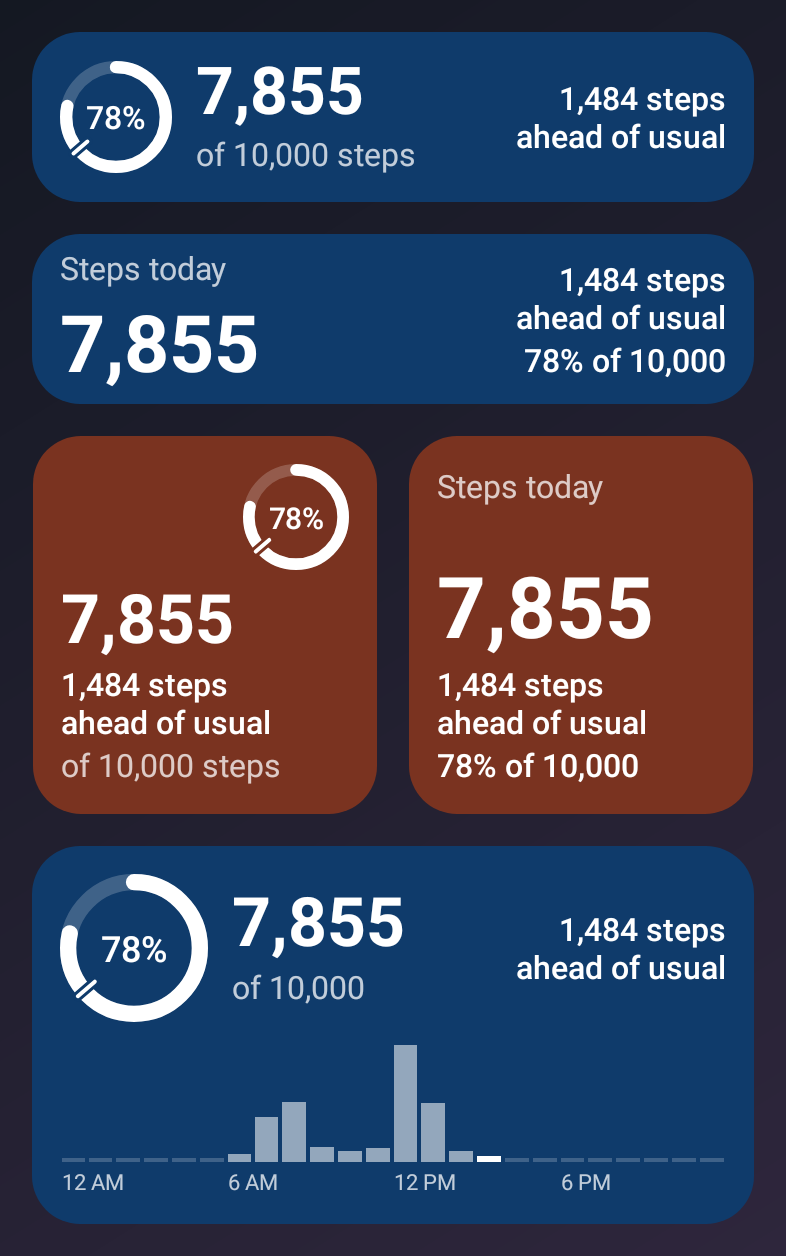
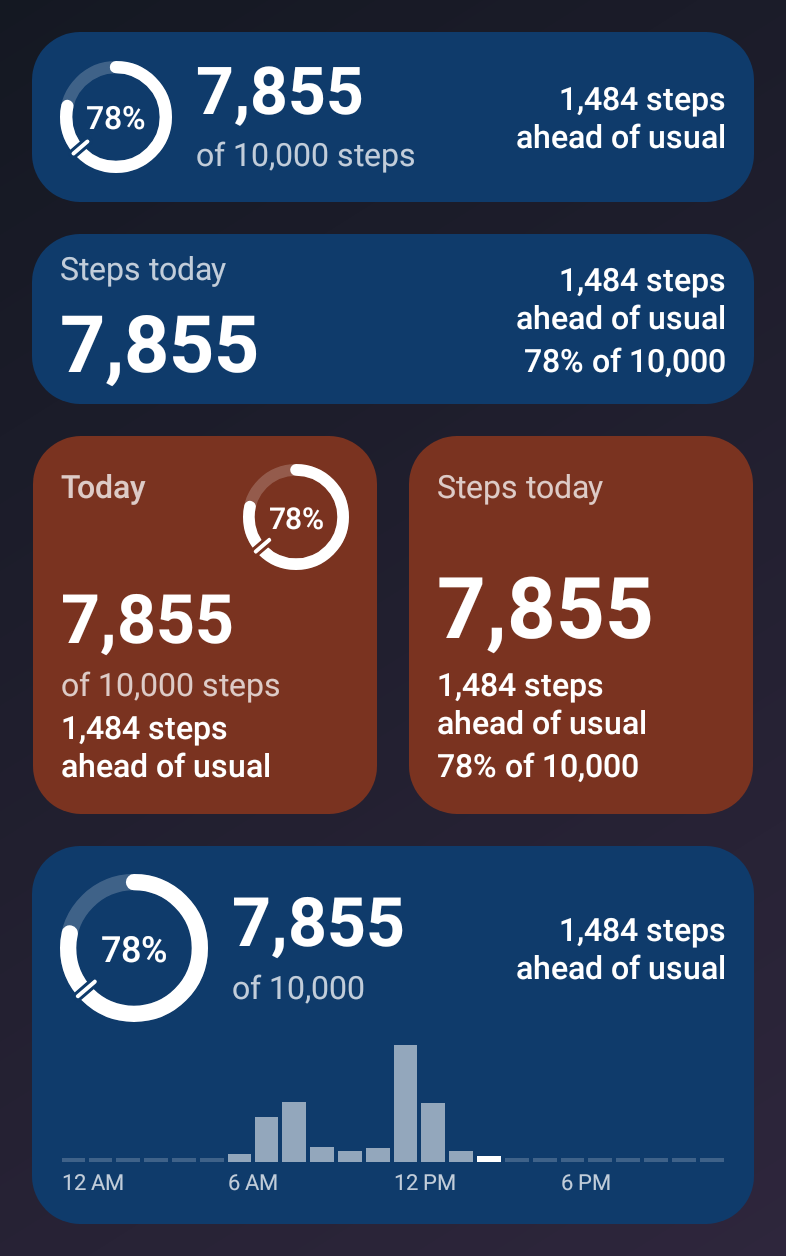
The family's ring card: «In words» is the ring, with its eyebrow and the family's order
The ring card (GlanceWidget) takes the name every sister gives its ring
card, «In words» / «In parole»; the type card (WordsWidget) becomes «At a
glance» / «Colpo d'occhio». Labels only: classes and receivers keep their
names, so placed cards stay. The tall card gains «Today» beside the ring,
and under the number the goal now comes before the sentence (tall card and
a panel's stacked header). Guide, README, VISION, ADR 0005, PLANNING §15,
CHANGELOG updated; widgets.png regenerated.

Claude-Session: https://claude.ai/code/session_016e4mBMaw6WtMuiD1zs5DWe

Changed region(s): [[0.0611, 0.5279, 0.3664, 0.621], [0.0611, 0.3726, 0.1832, 0.4037]]

diff --git a/widget/src/main/kotlin/com/callbackdev/passo/widget/glance/GlanceWidget.kt b/widget/src/main/kotlin/com/callbackdev/passo/widget/glance/GlanceWidget.kt
@@ -64,6 +64,7 @@ import com.callbackdev.passo.widget.WidgetSamples
 import com.callbackdev.passo.widget.axisHour
 import com.callbackdev.passo.widget.balancedWidth
 import com.callbackdev.passo.widget.compactCount
+import com.callbackdev.passo.widget.eyebrowText
 import com.callbackdev.passo.widget.fontScale
 import com.callbackdev.passo.widget.goalOfText
 import com.callbackdev.passo.widget.linesThatFit
@@ -387,8 +388,9 @@ private fun RowContent(
         val sized = if (split != null) GlanceModifier.width(RingTextGap + column) else GlanceModifier.defaultWeight()
         Column(modifier = GlanceModifier.padding(start = RingTextGap).then(balance).then(sized)) {
             Count(parts, hero)
-            StackedSentence(parts, stacked, column)
+            // The family's order (owner, 14 Nov 2026): what the number is, then what it means.
             GoalLine(parts, column)
+            StackedSentence(parts, stacked, column)
             if (footnote) StatusFootnote(parts.model.state, parts.palette, column)
         }
         if (split != null) {
@@ -462,8 +464,8 @@ private fun MirroredRow(parts: CardParts, width: Dp, height: Dp, ring: Dp, wide:
                     )
                 }
             }
-            StackedSentence(parts, stacked, words)
             GoalLine(parts, words)
+            StackedSentence(parts, stacked, words)
             if (footnote) StatusFootnote(parts.model.state, parts.palette, words)
         }
         Ring(parts, ring)
@@ -471,8 +473,10 @@ private fun MirroredRow(parts: CardParts, width: Dp, height: Dp, ring: Dp, wide:
 }
 
 /**
- * Two rows and up: the ring alone in the top trailing corner, the words stacked from the bottom
- * leading one, in order: the number, the sentence, the goal.
+ * Two rows and up: the ring in the top trailing corner with the eyebrow («Today») beside it, the
+ * words stacked from the bottom leading one, in order: the number, the goal (what the number is,
+ * as under the number of a one-row card), the sentence (what it means). The family's order on a
+ * tall ring card (owner, 14 Nov 2026, PLANNING.md §15 «The family's ring card»).
  */
 @Composable
 private fun TallContent(parts: CardParts, size: DpSize) {
@@ -488,14 +492,37 @@ private fun TallContent(parts: CardParts, size: DpSize) {
     val fitted = text?.let { FittedSentence(it, plan.sentenceLines) }
     Box(modifier = GlanceModifier.fillMaxSize(), contentAlignment = Alignment.TopEnd) {
         Ring(parts, plan.ring)
+        Eyebrow(parts, tallEyebrowWidth(width, plan.ring))
         Column(modifier = GlanceModifier.fillMaxSize(), verticalAlignment = Alignment.Bottom) {
             Count(parts, plan.heroSp)
+            GoalLine(parts, width)
             val sentenceWidth = fitted?.let {
                 balancedWidth(context, it.text, SENTENCE_LINE_SP, width, TextWeight.MEDIUM, it.lines)
             } ?: width
             Sentence(parts, fitted, TextAlign.Start, GlanceModifier.width(sentenceWidth))
-            GoalLine(parts, width)
         }
+    }
+}
+
+/**
+ * The tall card's eyebrow, in the top leading corner beside the ring: what the card is about,
+ * «Today», as every ring card of the family names its subject there. Quiet and Medium, one line,
+ * left out where even the word does not fit the column the ring leaves.
+ */
+@Composable
+private fun Eyebrow(parts: CardParts, room: Dp) {
+    val text = eyebrowText(parts.context, short = true)
+    if (measureWidgetText(parts.context, text, EYEBROW_SP, TextWeight.MEDIUM).withSlack() > room) return
+    Box(modifier = GlanceModifier.fillMaxSize(), contentAlignment = Alignment.TopStart) {
+        Text(
+            text = text,
+            style = TextStyle(
+                color = parts.palette.secondaryInk,
+                fontSize = EYEBROW_SP.sp,
+                fontWeight = FontWeight.Medium,
+            ),
+            maxLines = 1,
+        )
     }
 }
 

diff --git a/widget/src/main/kotlin/com/callbackdev/passo/widget/glance/GlanceLayout.kt b/widget/src/main/kotlin/com/callbackdev/passo/widget/glance/GlanceLayout.kt
@@ -16,7 +16,8 @@ import com.callbackdev.passo.widget.textLineHeight
 import com.callbackdev.passo.widget.textSizeForLine
 
 /*
- * «At a glance»: the ring is the picture the card is read by across a room, and it says
+ * «In words», the family's ring card (owner, 14 Nov 2026: it was «At a glance», and took the
+ * name its sisters' ring cards carry; the class names stay, so placed cards stay): the ring is the picture the card is read by across a room, and it says
  * at a glance (how far along the day is) before any number is read.
  *
  * Five forms, picked by the grant the launcher really makes, so every size is a composition
@@ -177,6 +178,16 @@ internal fun tallPlan(
     }
     return TallPlan(ring = ring, heroSp = quarterPoint(hero), sentenceLines = lines)
 }
+
+/**
+ * The tall card's eyebrow (owner, 14 Nov 2026, the family's ring card): «Today» in the top leading
+ * corner, beside the ring, at the scale's body size, quiet and Medium. Its column is what the ring
+ * leaves less [EyebrowRingGap]; it stands in the ring's height, so it takes nothing from the words.
+ */
+internal fun tallEyebrowWidth(innerWidth: Dp, ring: Dp): Dp = (innerWidth - ring - EyebrowRingGap).coerceAtLeast(0.dp)
+
+internal const val EYEBROW_SP = WidgetType.BODY
+internal val EyebrowRingGap = 8.dp
 
 internal val TallRingMin = 44.dp
 internal val TallRingMax = 104.dp

diff --git a/widget/src/test/kotlin/com/callbackdev/passo/widget/glance/GlanceLayoutTest.kt b/widget/src/test/kotlin/com/callbackdev/passo/widget/glance/GlanceLayoutTest.kt
@@ -5,7 +5,7 @@ import androidx.compose.ui.unit.dp
 import com.google.common.truth.Truth.assertThat
 import org.junit.Test
 
-/** The forms and budgets of «At a glance», at the household's reference grants. */
+/** The forms and budgets of «In words», the ring card (named «At a glance» until 14 Nov 2026), at the household's reference grants. */
 class GlanceLayoutTest {
     private val oneByOne = DpSize(85.dp, 85.dp)
     private val twoByOne = DpSize(159.dp, 85.dp)
@@ -205,5 +205,15 @@ class GlanceLayoutTest {
     fun `the one-cell ring takes the cell`() {
         assertThat(dotRingSize(oneByOne)).isEqualTo(85.dp - DotPadding * 2)
         assertThat(dotRingSize(oneByTwo)).isEqualTo(85.dp - DotPadding * 2)
+    }
+
+    @Test
+    fun `the tall card's eyebrow stands beside the ring, in the column it leaves`() {
+        val plan = tallPlan(twoByTwo, 1f, fiveDigits, 2)
+        val inner = twoByTwo.width - 28.dp
+        assertThat(tallEyebrowWidth(inner, plan.ring)).isEqualTo(inner - plan.ring - 8.dp)
+        // «Today» at 16 sp is about 45 dp: the two-by-two leaves it room.
+        assertThat(tallEyebrowWidth(inner, plan.ring).value).isGreaterThan(60f)
+        assertThat(tallEyebrowWidth(20.dp, 44.dp)).isEqualTo(0.dp)
     }
 }

diff --git a/widget/src/main/kotlin/com/callbackdev/passo/widget/words/WordsWidget.kt b/widget/src/main/kotlin/com/callbackdev/passo/widget/words/WordsWidget.kt
@@ -70,7 +70,8 @@ import com.callbackdev.passo.widget.widgetFormatter
 import com.callbackdev.passo.widget.withSlack
 
 /**
- * «In words»: the same day as «At a glance», with no drawing on the card
+ * «At a glance» (named «In words» until 14 Nov 2026, when the ring card took that name): the same
+ * day as the ring card «In words», with no drawing on the card
  * but two marks at the size of the line they belong to (a check before a goal that is met, and
  * the pause of a count that is not moving). The number is the drawing now. [WordsLayout] holds
  * the ranks, the forms and every number's reason.

diff --git a/widget/src/main/kotlin/com/callbackdev/passo/widget/PassoWidgets.kt b/widget/src/main/kotlin/com/callbackdev/passo/widget/PassoWidgets.kt
@@ -22,10 +22,10 @@ import kotlinx.coroutines.launch
 
 /** The two cards, as the settings screen and the previews need to tell them apart. */
 enum class WidgetKind {
-    /** «At a glance»: the ring, the number, the sentence, and the day hour by hour. */
+    /** «In words», the family's ring card (named «At a glance» until 14 Nov 2026): the ring, the number, the sentence, and the day hour by hour. */
     GLANCE,
 
-    /** «In words»: the number and the day in type. */
+    /** «At a glance» (named «In words» until 14 Nov 2026): the number and the day in type. */
     WORDS,
 }
 

diff --git a/widget/src/main/kotlin/com/callbackdev/passo/widget/words/WordsLayout.kt b/widget/src/main/kotlin/com/callbackdev/passo/widget/words/WordsLayout.kt
@@ -14,7 +14,8 @@ import com.callbackdev.passo.widget.textLineHeight
 import com.callbackdev.passo.widget.textSizeForLine
 
 /*
- * «In words»: the day with nothing drawn on it but two small marks, and
+ * «At a glance» (named «In words» until 14 Nov 2026, when the ring card took that name): the day
+ * with nothing drawn on it but two small marks, and
  * its whole hierarchy built out of type, in four ranks, each differing by weight AND ink, and
  * by size wherever the scale has a step between them (the sentence and the facts share 16 sp
  * since 13 Oct 2026):

diff --git a/README.md b/README.md
@@ -61,7 +61,7 @@ calories are estimates, and Passo says so.
   <tr>
     <td align="center"><img src="docs/screenshots/intervals.png" width="250" alt="Editing the Japanese interval walk: what it is in two lines, then 3 slow minutes, 3 fast minutes and 5 sets, with the outing's shape in slow and fast blocks"><br><sub><b>Japanese interval walk</b>: slow and fast in turns</sub></td>
     <td align="center"><img src="docs/screenshots/intervals-done.png" width="250" alt="An interval walk just over: goal reached, each fast interval's cadence against the pace line, 4 fast intervals of 5 at pace"><br><sub><b>Each fast interval</b>, against its pace</sub></td>
-    <td align="center"><img src="docs/screenshots/widgets.png" width="250" alt="The two widgets on a home screen: At a glance with its ring, In words, a terracotta pair side by side, and the day hour by hour"><br><sub><b>Two widgets</b>: At a glance and In words</sub></td>
+    <td align="center"><img src="docs/screenshots/widgets.png" width="250" alt="The two widgets on a home screen: In words with its ring, At a glance, a terracotta pair side by side, and the day hour by hour"><br><sub><b>Two widgets</b>: In words and At a glance</sub></td>
   </tr>
   <tr>
     <td align="center"><img src="docs/screenshots/widget-settings.png" width="250" alt="One widget's settings: the card as it will look, its sizes, the background colour, the opacity and the content"><br><sub><b>Widget settings</b>, with a live preview</sub></td>
@@ -101,7 +101,7 @@ Italian). The phone's status bar is not in the pictures. The command that redraw
 - 🗺 **Ways**: long ways (Via degli Dei, Camino Portugués, Via di Francesco, Camino Francés, Via Francigena, Kumano Kodō, Great Ocean Walk, Inca Trail, John Muir Trail, Kilimanjaro), listed by continent and walked from home, stage by stage, with a stamp for each. No location: only your distance.
 - 🏛 **City walks**: Milan, Rome, Paris, London, Madrid, Berlin, Vienna, Porto, Amsterdam and Prague in Europe, Lima, Cusco, New York, Rio de Janeiro, Mexico City, Buenos Aires, San Francisco, Québec, Havana and Cartagena in the Americas, Tokyo, Sydney, Seoul, Beijing, Hong Kong, Singapore, Bangkok, Kyoto, Hanoi and Melbourne in Asia and Oceania, Cairo, Cape Town, Marrakech, Tunis, Alexandria, Dakar, Addis Ababa, Fez, Zanzibar and Luxor in Africa, walked where you are in one outing or a few, about 5 km or about 10. Each continent has its page, with a map of where its cities are and which you have walked. Each place is told as your steps reach it, with a short vibration and, if you like, a line about it in your headphones.
 - 📏 **Measure your step**: walk a distance you know and Passo works out your step length. No GPS.
-- 🏠 **Two widgets**: At a glance and In words, resizable, in six colours and any opacity.
+- 🏠 **Two widgets**: In words (the ring) and At a glance (the number), resizable, in six colours and any opacity.
 - 🔔 **Notifications**: goal reached, an evening reminder, a weekly summary. Each one optional.
 - ⚡ **Quick Settings tile**: today's steps and the share of the goal.
 - 💾 **Your data**: a backup to a file, a CSV for spreadsheets, and an import that never deletes anything.

diff --git a/PLANNING.md b/PLANNING.md
@@ -1106,6 +1106,26 @@ This log starts after 1.1.0's preparation (2 Nov 2026); its entries are written 
   `onboarding-goal.png` regenerated (the welcome's breaks did not change). Checked: the
   onboarding's tests and their screenshots, spotless.
 
+- **14 Nov 2026.** **The family's ring card: «In words» in the four apps** (owner: "the «At a
+  glance» widget of Passo becomes «In words», so it lines up with the other three in the ring's
+  drawing; then, with Passo's as the model of layout, drawing and type, a review and a redesign so
+  the four are one family at every size, on one home screen"). The design was drawn first, on a
+  canvas the owner approved, then built in the four repositories. Passo's part:
+  - **The names swap.** The ring card (`GlanceWidget`) is «In words» / «In parole», the name every
+    sister gives its ring card; the type card (`WordsWidget`) takes the name the ring leaves, «At a
+    glance» / «Colpo d'occhio». Only the labels change: the classes, receivers and layouts keep
+    their names, so a card already on a home screen stays where it is, with its settings. The
+    guide's paragraph says the new names.
+  - **The tall card's eyebrow**: «Today» in the top leading corner beside the ring
+    (`tallEyebrowWidth`, `EYEBROW_SP`, 16 sp Medium, quiet), as every ring card names its subject
+    there (Tempo the date, Tetto the cap, Chiaro the place). It stands in the ring's height and
+    takes nothing from the words; dropped where even the word does not fit.
+  - **The family's order** under the number: the goal (what the number is) before the sentence
+    (what it means), on the tall card and in a panel's stacked header, as a row already reads.
+  - The ring, its sizes, the bars and the type scale are the family's model and do not change: the
+    sisters follow them. Checked: `:widget` and `:feature:guide` tests, the gallery looked at,
+    spotless. README screenshot `widgets.png` regenerated and looked at.
+
 ### Open
 
 - [ ] **On a device (owner): Today's premium review** (§15, «Today reviewed for a premium first

diff --git a/CLAUDE.md b/CLAUDE.md
@@ -80,7 +80,7 @@ that does not match it.
 | `:core:designsystem` | Android library | M3 theme, typography, shared components, the Canvas charts (`DayTrendChart`, `BarChart`), `CalendarHeatmap`, `WalkList` and `OutingList`, `SessionCard`, the ways' and the continents' maps and stamps (`WayMapView`, `ContinentMapView`, `WayStamp`) and place names, date formatting |
 | `:core:testing` | Android library, test-only | `assertAccessible()` (labels, 48dp touch targets) and `walkPage()`, shared by the UI tests as `testImplementation` |
 | `:feature:*` | Android library | `today`, `history`, `insights`, `settings` (with your data and the step calibration), `onboarding`, `sessions` (the Outings page and editor), `ways` (the Ways, each continent's cities, each way's page and each city walk's), `guide` (the guide, in Chiaro's shape), `year` (Your year on foot: the year's pages, shared as an image) |
-| `:widget` | Android library | the two Glance widgets («At a glance», «In words»), their settings screen, the update coordinator |
+| `:widget` | Android library | the two Glance widgets («In words», the ring card in `glance/`; «At a glance», the type card in `words/`: names swapped on 14 Nov 2026, classes kept), their settings screen, the update coordinator |
 | `:app` | application | `Application`, `MainActivity`, navigation (the bottom bar: Today, History, Insights), DI entry points; wires everything |
 
 Rules: `:core:model` and `:core:domain` stay pure Kotlin/JVM; if a class there needs a `Context`

diff --git a/VISION.md b/VISION.md
@@ -112,8 +112,8 @@ Added to v1.0 at the owner's request (Phase 10, `docs/adr/0009-sessions.md`). An
 ### Widgets (Jetpack Glance)
 
 - Two widgets, in the dress of Chiaro's pair so the family's cards sit side by side as one (decided in Phase 4, `docs/adr/0005-widgets.md`):
-  - **At a glance**: today's ring (with the usual-day notch), the count, the goal and the day's sentence; on a wide tall card, today's steps hour by hour in 24 bars, built without images.
-  - **In words**: the same day in type alone, Chiaro's «In parole»: the count large, the sentence, the goal, distance and calories, and on a tall card the day in figures.
+  - **In words** (named «At a glance» until 14 Nov 2026, when it took the name of the family's ring cards): today's ring (with the usual-day notch), the count, the goal and the day's sentence; on a wide tall card, today's steps hour by hour in 24 bars, built without images.
+  - **At a glance** (named «In words» until 14 Nov 2026): the same day in type alone: the count large, the sentence, the goal, distance and calories, and on a tall card the day in figures.
 - The same sizes for both: from one cell to as large as the launcher allows, 4x1 by default, with a layout for every size.
 - Per widget: a light, dark or phone-following card, or one of Chiaro's six colours, any opacity, and which content it carries.
 - Updates quickly when the screen turns on, is throttled while the screen is on, and never updates while the screen is off.

diff --git a/docs/adr/0005-widgets.md b/docs/adr/0005-widgets.md
@@ -116,3 +116,9 @@ part in the style of Chiaro's «Colpo d'occhio».
 today's hours, chosen per card (`WidgetLook.panel`): seven boxes on the world's scale with a
 hairline at today's goal, under the same ink rule (PLANNING.md §15, «The last seven days on At a
 glance»).
+
+**Amended 14 Nov 2026** (owner): the names swap. The ring card (`GlanceWidget`) is «In words» /
+«In parole», the name every card of the family that draws the ring carries; the type card
+(`WordsWidget`) is «At a glance» / «Colpo d'occhio». Only the labels change, so placed cards
+stay. The tall ring card gains the family's eyebrow («Today», beside the ring) and the family's
+order under the number: the goal, then the sentence (PLANNING.md §15, 14 Nov 2026).

diff --git a/CHANGELOG.md b/CHANGELOG.md
@@ -12,6 +12,10 @@ All notable changes to Passo are documented here. The format follows
 
 ### Better
 
+- **The widgets swap names.** The card with the ring is now «In words», as on the other apps
+  of the family, and the card with the large number is «At a glance». Your cards stay where they
+  are. On a tall card the ring now has «Today» beside it, and the goal comes before the sentence.
+
 - **Outings, easier to read and to start.** Each outing is a shorter card that reads on one
   line, with one button to start it and a touch on the card to change it; a new one is at the
   top of the page. An outing under way leads with its sentence, shows how far it is and where
